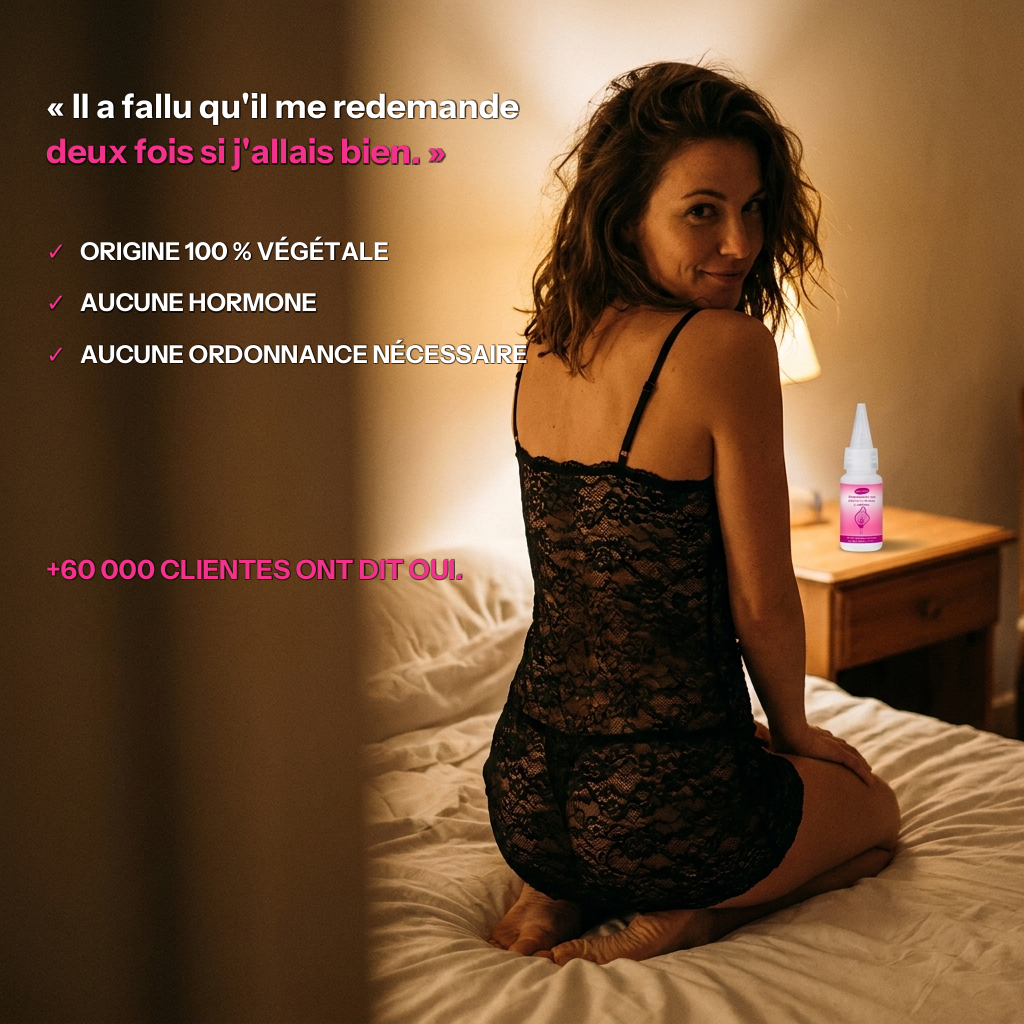
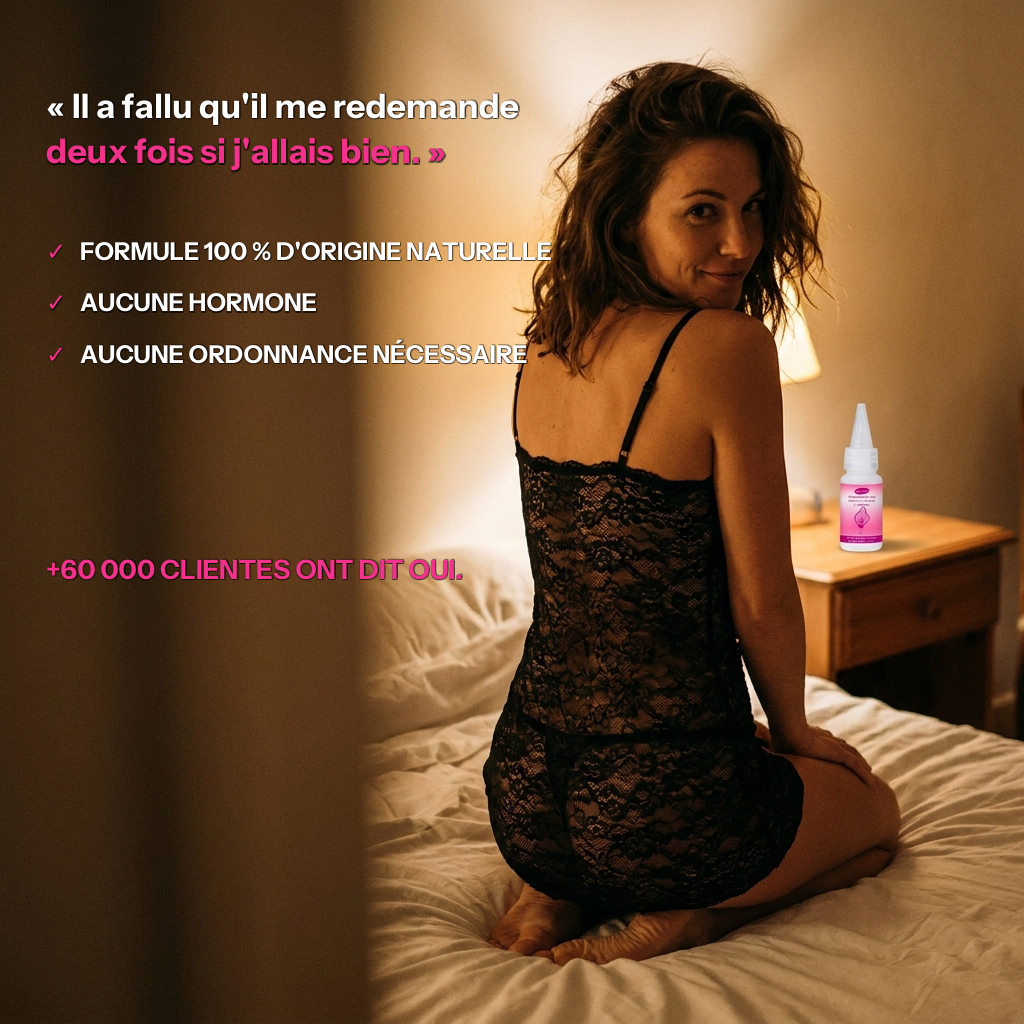
ÉveilSens: fix fabricated "100% vegetal origin" claim
"ORIGINE 100 % VÉGÉTALE" (CKL1, CKL4, TST4, TST6) didn't trace to
product-page.md — it was a reworded substitute for "100% naturelle"
(needed to avoid reusing win_01/win_02's exact line) that ended up
asserting something the fact sheet doesn't support: the page's own
"complexe végétal exclusif" describes one ingredient blend, not the
whole formula, and the base includes water/glycerin/Sodium PCA, none of
which are plant-derived. Caught by the client.

Corrected to "100% D'ORIGINE NATURELLE" (grounded in the page's own
"100% naturelle et sans hormones"), re-checked width/fit on every
affected image, shortened CKL4's copy where the longer replacement first
overflowed the frame.

Changed region(s): [[0.0625, 0.2188, 0.5312, 0.2812]]

diff --git a/.claude/skills/static-remix/runs/20260827-eveilsens2/compose_ckl.py b/.claude/skills/static-remix/runs/20260827-eveilsens2/compose_ckl.py
@@ -63,7 +63,7 @@ def CKL1_20ans_aggressive():
     # layout (that first attempt scored 0.76 against win_02 and 0.64 against CKL2 — a
     # structural re-render, not just close wording; see report.txt for the full story).
     headline = ["REVIVEZ L'INTENSITÉ", "DE VOS 20 ANS.", "EN 90 SECONDES."]
-    bullets = ["2 GOUTTES SUFFISENT", "ORIGINE 100 % VÉGÉTALE",
+    bullets = ["2 GOUTTES SUFFISENT", "FORMULE 100 % D'ORIGINE NATURELLE",
                "AUCUNE HORMONE AJOUTÉE", "60 JOURS POUR CHANGER D'AVIS"]
     assert_not_winner_copy(headline + bullets, label="CKL1", path=WINNER_COPY)
 
@@ -126,7 +126,7 @@ def CKL3_avis_proof():
 @job
 def CKL4_discreet_aggressive():
     headline = ["PERSONNE NE SAURA.", "VOUS, VOUS LE SAUREZ."]
-    bullets = ["LIVRAISON DISCRÈTE", "ORIGINE 100 % VÉGÉTALE", "COMPATIBLE PRÉSERVATIFS"]
+    bullets = ["LIVRAISON DISCRÈTE", "100 % D'ORIGINE NATURELLE", "COMPATIBLE PRÉSERVATIFS"]
     footer = "60 JOURS POUR CHANGER D'AVIS. REMBOURSÉE."
     assert_not_winner_copy(headline + bullets + [footer], label="CKL4", path=WINNER_COPY)
 

diff --git a/.claude/skills/static-remix/runs/20260827-eveilsens2/compose_tst.py b/.claude/skills/static-remix/runs/20260827-eveilsens2/compose_tst.py
@@ -128,7 +128,7 @@ def TST3_legs_tangled():
 @job
 def TST4_shoulder_glance():
     quote = [("« Il a fallu qu'il me redemande", WHITE), ("deux fois si j'allais bien. »", PINK)]
-    bullets = ["ORIGINE 100 % VÉGÉTALE", "AUCUNE HORMONE", "AUCUNE ORDONNANCE NÉCESSAIRE"]
+    bullets = ["FORMULE 100 % D'ORIGINE NATURELLE", "AUCUNE HORMONE", "AUCUNE ORDONNANCE NÉCESSAIRE"]
     tagline = "+60 000 CLIENTES ONT DIT OUI."
     assert_not_winner_copy([t for t, _ in quote] + bullets + [tagline],
                            label="TST4", path=WINNER_COPY)
@@ -165,7 +165,7 @@ def TST5_back_curve():
 @job
 def TST6_toes_curl():
     quote = [("Ses orteils se sont", WHITE), ("recroquevillés en une minute.", PINK)]
-    bullets = ["SANS ABONNEMENT", "ORIGINE VÉGÉTALE", "60 JOURS D'ESSAI, SANS RISQUE"]
+    bullets = ["SANS ABONNEMENT", "D'ORIGINE NATURELLE", "60 JOURS D'ESSAI, SANS RISQUE"]
     tagline = "ELLE NE S'Y ATTENDAIT PAS."
     assert_not_winner_copy([t for t, _ in quote] + bullets + [tagline],
                            label="TST6", path=WINNER_COPY)
